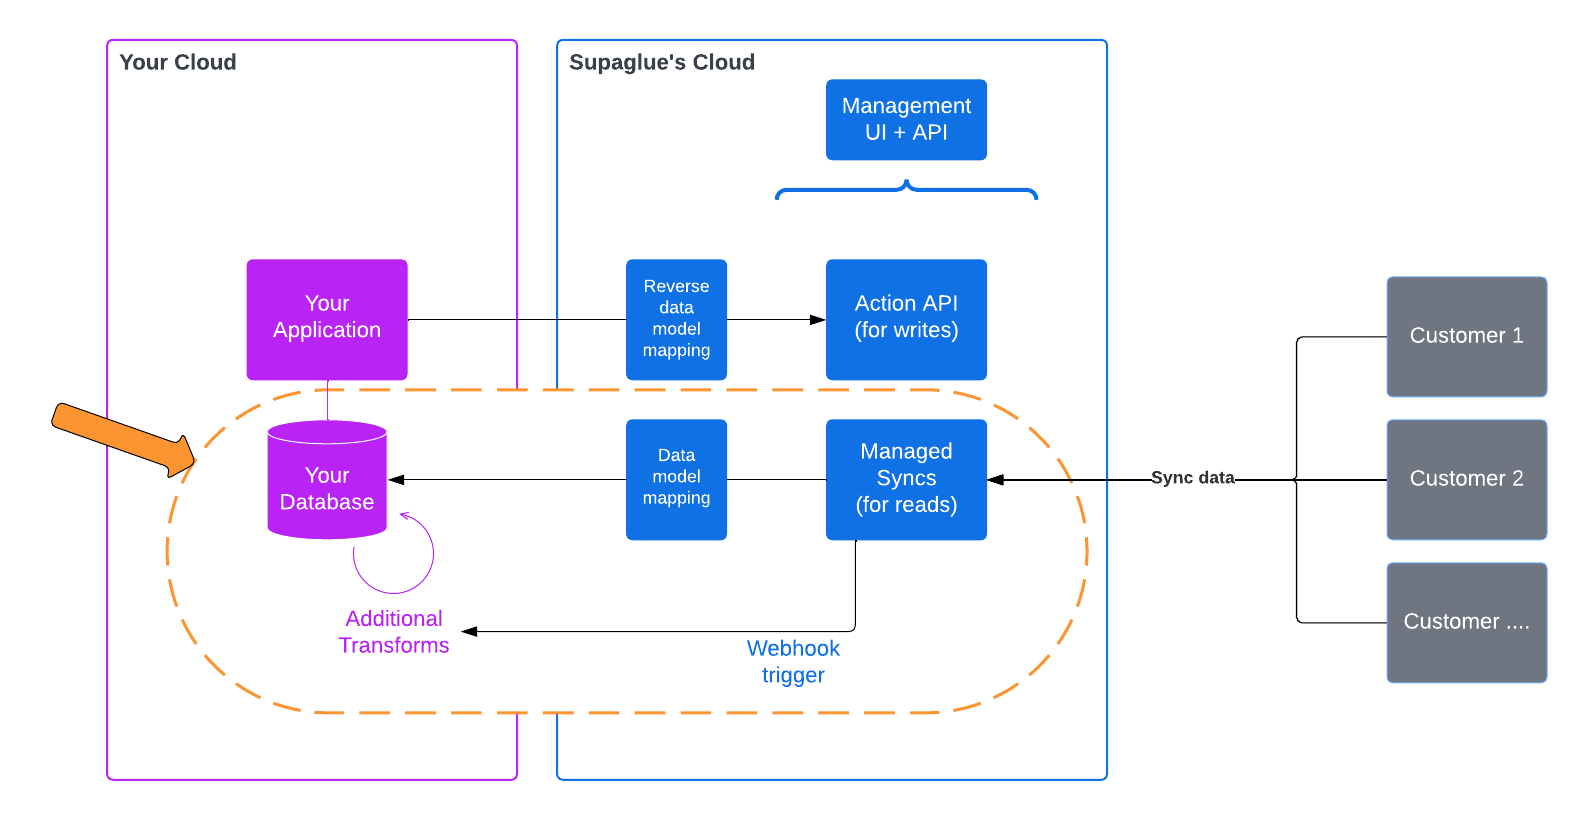
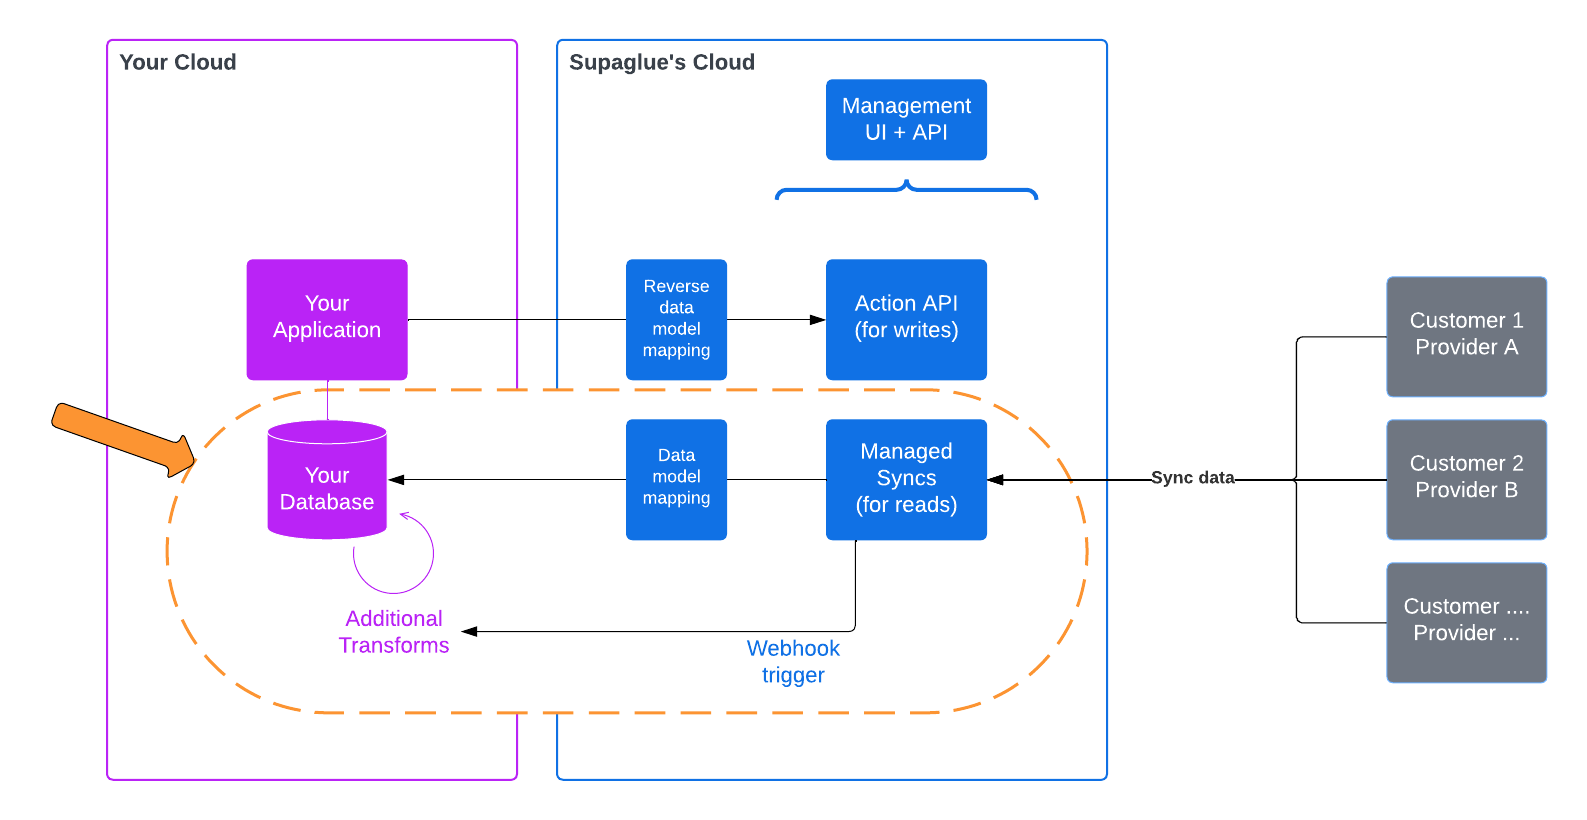
docs: revise managed syncs docs: add diagrams

Changed region(s): [[0.8645, 0.7317, 0.9572, 0.7927], [0.8645, 0.5488, 0.9572, 0.6098], [0.8645, 0.3659, 0.9572, 0.4268]]

diff --git a/docs/docs/integration-patterns/managed-syncs.md b/docs/docs/integration-patterns/managed-syncs.md
@@ -1,4 +1,5 @@
 import ThemedImage from '@theme/ThemedImage';
+import BrowserWindow from '@site/src/components/BrowserWindow';
 
 # Managed syncs (reads)
 
@@ -15,25 +16,59 @@ sources={{
 
 ## How it works
 
-1. Configure the sync parameters (customers, providers, destination, sync configuration) using the [Management Portal](https://app.supaglue.io) or [Management API](../api/v2/mgmt/management-api).
-2. Your customer connects via our [Managed Authentication](../platform/managed-auth) feature and optionally defines mappings ([Objects](../platform/objects/overview), [Entities](../platform/entities/overview), or [Common Schema](../platform/common-schema/overview)) specific to their third-party Provider.
+1. Use the [Management Portal](https://app.supaglue.io) to create a sync configuration ([SyncConfig](#syncconfig)) that defines "what" and "how" to sync from a third-party [Provider](#provider) to a [Destination](#destination).
+2. Your customer connects via our [Managed Authentication](../platform/managed-auth) feature.
 3. Supaglue starts fetching data from your customers’ third-party Providers and landing them in your Destination (e.g. Postgres).
 
-### Provider configuration
+:::info
+Choose from three ways to data model how Provider objects should map to Destination objects: [Objects](../platform/objects/overview), [Entities](../platform/entities/overview), or [Common Schema](../platform/common-schema/overview).
+:::
 
-The provider configuration defines which providers to sync from (e.g. Salesforce), and allows your customers to connect securely through Supaglue's managed authentication.
+## Concepts
+
+<ThemedImage
+alt="managed syncs concepts"
+width="50%"
+sources={{
+    light: '/img/managed-syncs-concepts.png',
+    dark: '/img/managed-syncs-concepts.png',
+  }}
+/>
+
+### Provider
+
+A Provider is a third-party SaaS tool that Supaglue can connect to, to sync data.
+
+Use the **Configuration --> Providers** page in the Management Portal to configure Oauth app credentials:
+
+<BrowserWindow url="https://app.supaglue.io/application/62605dc1-148e-4c53-a850-82e10f71ed23/configuration/providers/crm/salesforce">
+
+<ThemedImage
+alt="provider config"
+width="100%"
+sources={{
+    light: '/img/salesforce-provider-config.png',
+    dark: '/img/salesforce-provider-config.png',
+  }}
+/>
+
+</BrowserWindow>
+
+Example Provider json configuration:
 
 ```json
 {
-  "provider_name": "salesforce",
-  "auth_type": "oauth2",
+  "id": "...",
+  "application_id": "...",
   "category": "crm",
+  "auth_type": "oauth2",
+  "name": "salesforce",
   "config": {
     "oauth": {
-      "oauth_scopes": ["api", "id", "refresh_token"],
+      "oauth_scopes": ["id", "api", "refresh_token"],
       "credentials": {
-        "client_id": "7393b5a4-5e20-4648-87af-b7b297793fd1",
-        "client_secret": "941b846a-5a8c-48b8-b0e1-41b6d4bc4f1a"
+        "oauth_client_id": "3MVG9ux34Ig8G5epaZ61C6cIBMigzByvA_dRqIK173k80emeb13bs.bjU1IxUt8AOAKrZHcymU770sHlopQG_",
[1 lines of base64/hex data omitted]
       }
     }
   }
@@ -43,26 +78,43 @@ The provider configuration defines which providers to sync from (e.g. Salesforce
 import Tabs from '@theme/Tabs';
 import TabItem from '@theme/TabItem';
 
-### Destination configuration
+### Destination
 
-The destination configuration defines where we sync to. It is a data store hosted in your cloud.
+A Destination is a database or data warehouse in your infrastructure where Supaglue can write third-party Provider data to.
+
+Use the **Configuration --> Destinations** page in the Management Portal to configure Oauth app credentials:
+
+<BrowserWindow url="https://app.supaglue.io/application/62605dc1-148e-4c53-a850-82e10f71ed23/configuration/destinations/postgres">
+
+<ThemedImage
+alt="destination config"
+width="100%"
+sources={{
+    light: '/img/postgres-destination-config.png',
+    dark: '/img/postgres-destination-config.png',
+  }}
+/>
+
+</BrowserWindow>
 
 <Tabs>
 
 <TabItem value="postgres-provider-config" label="Postgres" default>
 
+Example Destination (Postgres) json configuration:
+
 ```json
 {
-  "id": 2,
-  "name": "my production postgres",
+  "id": "...",
+  "application_id": "...",
+  "name": "My Postgres Destination",
   "type": "postgres",
-  "credentials": {
-    "host": "db.jqmzyaitgfisezefyosx.supabase.co",
+  "config": {
+    "host": "production.cluster-cdhnnutnlctj.us-west-2.rds.amazonaws.com",
     "port": 5432,
-    "database": "postgres",
-    "schema": "supaglue",
-    "user": "admin",
-    "password": "admin"
+    "database": "postgres_prod_db",
+    "schema": "public",
+    "user": "myuser"
   }
 }
 ```
@@ -73,73 +125,177 @@ The destination configuration defines where we sync to. It is a data store hoste
 
 :::info
 Before syncing data, Supaglue generates the destination tables and columns in your database if they do not already exist.
-
 :::
 
-### Sync configuration
+### SyncConfig
 
-The sync configuration references the provider and destination configurations, and defines how the managed sync works (frequency, objects, strategy, etc).
+A SyncConfig ties a Provider (source) to a Destination. It defines what objects to sync and how to sync them (frequency, strategy, etc).
+
+<BrowserWindow url="https://app.supaglue.io/application/62605dc1-148e-4c53-a850-82e10f71ed23/configuration/sync_configs/4427eb3f-3c64-4d1e-bf3a-0646475fc71c">
+
+<ThemedImage
+alt="sync config"
+width="100%"
+sources={{
+    light: '/img/salesforce-postgres-sync-config.png',
+    dark: '/img/salesforce-postgres-sync-config.png',
+  }}
+/>
+
+</BrowserWindow>
+
+Example SyncConfig json configuration:
 
 ```json
 {
-  "id": 1,
-  "name": "my salesforce sync",
-  "destination_id": 1,
-  "provider_id": 2,
-  "default_config": {
-    "period_ms": 3600,
-    "strategy": "full refresh"
-  },
-  "common_objects": [
-    {
-      "object": "contact"
+  "id": "...",
+  "application_id": "...",
+  "provider_id": "7f72ec07-e5c1-47fd-8cf5-e71dd13873af",
+  "destination_id": "6e7baa88-84dd-4dbc-902a-14522c2984eb",
+  "config": {
+    "default_config": {
+      "period_ms": 60000,
+      "strategy": "full then incremental",
+      "auto_start_on_connection": true
     },
-    {
-      "object": "account"
-    }
-  ],
-  "standard_objects": [
-    {
-      "object": "Opportunity"
-    }
-  ],
-  "custom_objects": [
-    {
-      "object": "MyCustomObject__c"
-    }
-  ]
+    "common_objects": [
+      {
+        "object": "contact"
+      }
+    ],
+    "standard_objects": [
+      {
+        "object": "Account"
+      }
+    ],
+    "custom_objects": [
+      {
+        "object": "BattleCard__c"
+      }
+    ],
+    "entities": [
+      {
+        "entity_id": "3a82409f-c98f-4d25-bbd8-3335de3f12cc"
+      }
+    ]
+  }
 }
 ```
 
-The above sync configuration defines a managed sync that does the following:
+The SyncConfig above defines references a Salesforce Provider config and a Postgres Destination config that does the following:
 
-- Fetch the Contact and Account objects from Salesforce, and normalize the response into a Supaglue-defined CRM schema.
-- Fetch the Opportunity object from Salesforce where the "description" and "revenue" fields can be mapped by each customer to a specific field on the Opportunity object.
-- Fetch the `MyCustomObject__c` custom object from Salesforce.
+- Sync the `contact` Supaglue [Common Object](../platform/common-schema/overview).
+- Sync `Account` [standard object](../platform/objects/overview) from Salesforce.
+- Sync the `BattleCard__c` [custom object](../platform/objects/overview) from Salesforce.
+- Sync a customer-mapped object and fields to an [Entity](../platform/entities/overview).
 
-## Destination schema
+## Data schema in Destination
 
-Supaglue lands data in provider-specific tables consisting of the following components:
+The exact schema of the data that Supaglue creates in your Destination varies on the data model ([Objects](../platform/objects/overview), [Entities](../platform/entities/overview), [Common Schema](../platform/common-schema/overview)) you choose to use, but all of them contain three types of information:
 
-- **Supaglue metadata fields**: these specify the application, customer, provider, and timestamps associated with the managed sync.
-- **Raw data**: the raw source data resides in a JSON blob.
-- **Normalized data**: the raw data is normalized (hoisted to top-level fields/columns) and mapped based on the [data model](../platform/overview#data-modeling) you chose.
+1. **Supaglue metadata fields**: These specify the application, customer, provider, and timestamps associated with the managed sync.
+1. **Raw data**: The raw third-party Provider data. We pass these through as-is.
+1. **Normalized data**: The raw data is normalized (hoisted to top-level fields/columns) and mapped based on the [data model](../platform/overview#data-modeling) you chose.
+1. (**Mapped data**: This is the same as raw data, but mapped based on the [data model](../platform/overview#data-modeling) you chose. We are working on consolidating Normalized data and Mapped data.)
 
-Here's an example of a destination schema associated with a managed sync for a standard object:
+### Entities
 
-| Field Name                | Data Type |
-| ------------------------- | --------- |
-| \_supaglue_application_id | String    |
-| \_supaglue_customer_id    | String    |
-| \_supaglue_provider_name  | String    |
-| \_supaglue_emitted_at     | Timestamp |
-| \_supaglue_is_deleted     | Boolean   |
-| \_supaglue_raw_data       | json      |
+Tables are named `entity_${Entity name}`, e.g. `entity_apolla_contact`.
+
+Example:
+
+```sql
+postgres=> \d entity_battlecard
+                            Table "staging.entity_battlecard"
+          Column          |              Type              | Collation | Nullable | Default
+--------------------------+--------------------------------+-----------+----------+---------
+ _supaglue_application_id | text                           |           | not null |
+ _supaglue_provider_name  | text                           |           | not null |
+ _supaglue_customer_id    | text                           |           | not null |
+ _supaglue_emitted_at     | timestamp(3) without time zone |           | not null |
+ _supaglue_is_deleted     | boolean                        |           | not null |
+ _supaglue_raw_data       | jsonb                          |           | not null |
+ _supaglue_mapped_data    | jsonb                          |           | not null |
+ id                       | text                           |           | not null |
+Indexes:
+    "entity_battlecard_pkey" PRIMARY KEY, btree (_supaglue_application_id, _supaglue_provider_name, _supaglue_customer_id, id)
+```
+
+### Objects
+
+Tables are named `${Provider}_${Object name}`, e.g. `salesforce_Account`.
+
+Example:
+
+```sql
+postgres=> \d gong_call
+                                 Table "staging.gong_call"
+          Column          |              Type              | Collation | Nullable | Default
+--------------------------+--------------------------------+-----------+----------+---------
+ _supaglue_application_id | text                           |           | not null |
+ _supaglue_provider_name  | text                           |           | not null |
+ _supaglue_customer_id    | text                           |           | not null |
+ _supaglue_emitted_at     | timestamp(3) without time zone |           | not null |
+ _supaglue_is_deleted     | boolean                        |           | not null |
+ _supaglue_raw_data       | jsonb                          |           | not null |
+ _supaglue_mapped_data    | jsonb                          |           | not null |
+ id                       | text                           |           | not null |
+Indexes:
+    "gong_call_pkey" PRIMARY KEY, btree (_supaglue_application_id, _supaglue_provider_name, _supaglue_customer_id, id)
+```
+
+### Common Schema
+
+Tables are named `${category}_${Supaglue Common Object name}`, e.g. `crm_accounts`.
+
+Example:
+
+```sql
+postgres=> \d crm_accounts;
+                                Table "staging.crm_accounts"
+          Column          |              Type              | Collation | Nullable | Default
+--------------------------+--------------------------------+-----------+----------+---------
+ _supaglue_application_id | text                           |           | not null |
+ _supaglue_provider_name  | text                           |           | not null |
+ _supaglue_customer_id    | text                           |           | not null |
+ _supaglue_emitted_at     | timestamp(3) without time zone |           | not null |
+ id                       | text                           |           | not null |
+ created_at               | timestamp(3) without time zone |           |          |
+ updated_at               | timestamp(3) without time zone |           |          |
+ is_deleted               | boolean                        |           | not null |
+ last_modified_at         | timestamp(3) without time zone |           | not null |
+ name                     | text                           |           |          |
+ description              | text                           |           |          |
+ industry                 | text                           |           |          |
+ website                  | text                           |           |          |
+ number_of_employees      | integer                        |           |          |
+ addresses                | jsonb                          |           |          |
+ phone_numbers            | jsonb                          |           |          |
+ last_activity_at         | timestamp(3) without time zone |           |          |
+ lifecycle_stage          | text                           |           |          |
+ owner_id                 | text                           |           |          |
+ raw_data                 | jsonb                          |           |          |
+Indexes:
+    "crm_accounts_pkey" PRIMARY KEY, btree (_supaglue_application_id, _supaglue_provider_name, _supaglue_customer_id, id)
+```
+
+## Sync strategies
+
+Supaglue implements two sync strategies:
+
+- `full only`: Every sync fetches all records from the Provider.
+- `full then incremental`: The initial sync performs a full sync, then incremental after that using a persistent high watermark.
+
+`full then incremental` is used where we can, but for specific objects and Providers, we may only be able to offer `full only` sync strategies. We list these out in the [Providers](/category/providers) documentation.
 
 :::note
-For Postgres/MySQL, Supaglue adds a primary key database constraint on `(_supaglue_application_id, supaglue_customer_id, supaglue_provider_name, id)`.
+S3 is the only Destination that does not support the `full then incremental` sync strategy.
 :::
+
+## Sync behavior
+
+Supaglue executes syncs on a per Entity/Object/Common Schema basis. For example, ten syncs will be created if you are syncing ten Standard Objects. Supaglue schedules them to run simultaneously at the frequency you set. Each sync run is independent, i.e., a failure in one sync will not affect the others.
 
 ## Query patterns
 
-Refer to destination documentation for query patterns in each destination, e.g. [Postgres](../destinations/postgres#query-patterns).
+Refer to [Destination](/category/destinations) documentation for best practices in each destination, e.g. [Postgres](../destinations/postgres#query-patterns).

diff --git a/docs/docs/platform/overview.md b/docs/docs/platform/overview.md
@@ -1,8 +1,3 @@
----
-description: ''
-sidebar_position: 1
----
-
 import ThemedImage from '@theme/ThemedImage';
 
 # Overview
@@ -38,6 +33,17 @@ There are three ways to data model objects in Supaglue:
 1. **[Entities](./entities/overview)**: You, the developer, define the data models.
 2. **[Objects](./objects/overview)**: Let you take the Provider's data model as-is.
 3. **[Common schema](./common-schema/overview)**: Lets Supaglue define the data model.
+
+Here's an example using Hubspot `organization` standard object:
+
+<ThemedImage
+alt="data models example"
+width="70%"
+sources={{
+    light: '/img/data-models-example.png',
+    dark: '/img/data-models-example.png',
+  }}
+/>
 
 Which data model you choose to adopt is based on the [integration patterns](../integration-patterns/overview) you are building into your product.
 
